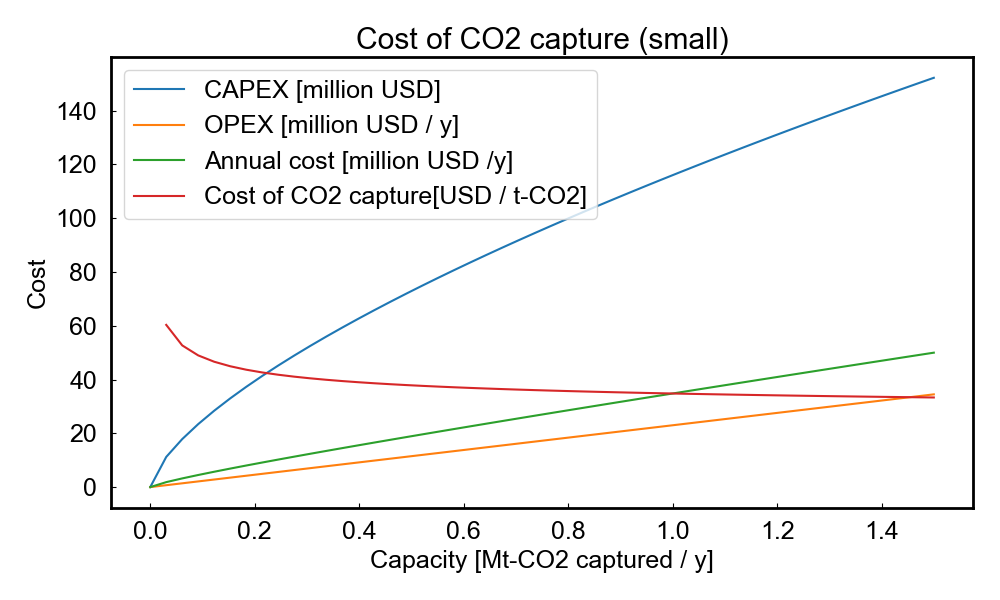
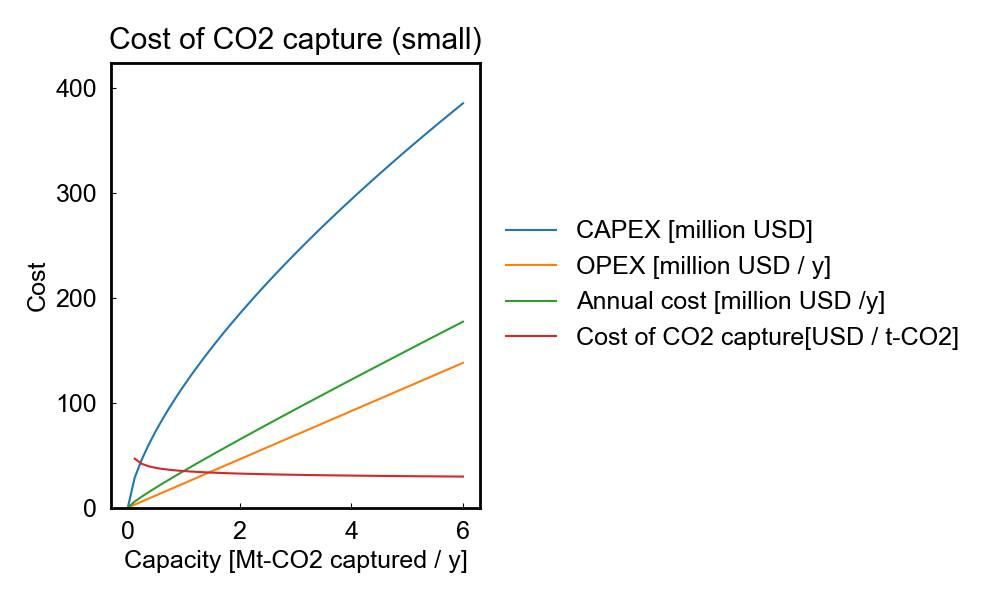
biomass gassification, CCS plot

diff --git a/myconfig/plotter.py b/myconfig/plotter.py
@@ -46,19 +46,19 @@ def make_ax(x_label, y_label, title):
     ax = plot_formatting(ax, x_label, y_label, title)
     return ax
 
-def save_figure(title, save_dir):
+def save_figure(title, save_dir, dpi=300):
     DATA_DIR = Path(__file__).resolve().parent.parent / "DATA"
     plot_dir = DATA_DIR / save_dir
     plot_dir.mkdir(exist_ok=True)
     save_path = plot_dir / f"{title}.png"
     plt.tight_layout()
-    plt.savefig(save_path)
+    plt.savefig(save_path, dpi=dpi)
 
 ###############
 ## Line plot ##
 ###############
 
-def plot_line(x, y_list, legend_label=[], x_label="x", y_label="y", title="title", save_dir="plots", y_max=None):
+def plot_line(x, y_list, legend_label=[], x_label="x", y_label="y", title="title", save_dir="plots", y_max=None, dpi=300):
     ax = make_ax(x_label, y_label, title)
     if not legend_label:
         legend_label = [str(i) for i in range(len(y_list))]
@@ -79,14 +79,14 @@ def plot_line(x, y_list, legend_label=[], x_label="x", y_label="y", title="title
         ax.set_ylim(0, max_y * 1.1)
 
     print(f"Plotted: {title}")
-    save_figure(title, save_dir)
+    save_figure(title, save_dir, dpi)
     plt.show()
 
 ###############
 ## Bar chart ##
 ###############
 
-def plot_bar(y_list, label_list=[], x_label="", y_label="y", title="title", save_dir="plots", y_max=None):
+def plot_bar(y_list, label_list=[], x_label="", y_label="y", title="title", save_dir="plots", y_max=None, dpi=300):
     ax = make_ax(x_label, y_label, title)
 
     x = ["Bar" + str(i+1) for i in range(len(y_list))]
@@ -101,10 +101,10 @@ def plot_bar(y_list, label_list=[], x_label="", y_label="y", title="title", save
         ax.set_ylim(0, max_y * 1.1)
 
     print(f"Plotted: {title}")
-    save_figure(title, save_dir)
+    save_figure(title, save_dir, dpi)
     plt.show()
 
-def plot_stack_bar(y_list, x_list=[], layer_label_list=[], x_label="", y_label="y", title="title", save_dir="plots", y_max=None):
+def plot_stack_bar(y_list, x_list=[], layer_label_list=[], x_label="", y_label="y", title="title", save_dir="plots", y_max=None, dpi=300):
     ax = make_ax(x_label, y_label, title)
 
     # x_listが提供されていない場合はデフォルト値を使用
@@ -139,14 +139,14 @@ def plot_stack_bar(y_list, x_list=[], layer_label_list=[], x_label="", y_label="
     
     ax.legend(bbox_to_anchor=(1.01, 0.5), loc="center left", frameon=False)
     print(f"Plotted: {title}")
-    save_figure(title, save_dir)
+    save_figure(title, save_dir, dpi)
     plt.show()
 
 ##################
 ## Scatter plot ##
 ##################
 
-def plot_scatter(x, y, x_label="x", y_label="y", title="title", save_dir="plots", y_max=None):
+def plot_scatter(x, y, x_label="x", y_label="y", title="title", save_dir="plots", y_max=None, dpi=300):
     ax = make_ax(x_label, y_label, title)
 
     x_list = x
@@ -161,14 +161,14 @@ def plot_scatter(x, y, x_label="x", y_label="y", title="title", save_dir="plots"
         ax.set_ylim(0, max_y * 1.1)
 
     print(f"Plotted: {title}")
-    save_figure(title, save_dir)
+    save_figure(title, save_dir, dpi)
     plt.show()
 
 ######################
 ## Combination plot ##
 ######################
 
-def plot_line_and_scatter(x_list, y_list, x_scat, y_scat, legend_label=[],  x_label="x", y_label="y", title="title", save_dir="plots", y_max=None):
+def plot_line_and_scatter(x_list, y_list, x_scat, y_scat, legend_label=[],  x_label="x", y_label="y", title="title", save_dir="plots", y_max=None, dpi=300):
     ax = make_ax(x_label, y_label, title)
     if not legend_label:
         legend_label = [str(i) for i in range(len(y_list))]
@@ -192,7 +192,7 @@ def plot_line_and_scatter(x_list, y_list, x_scat, y_scat, legend_label=[],  x_la
         ax.set_ylim(0, max_y * 1.1)
 
     print(f"Plotted: {title}")
-    save_figure(title, save_dir)
+    save_figure(title, save_dir, dpi)
     plt.show()
 
 if __name__ == "__main__":

diff --git a/main.py b/main.py
@@ -139,4 +139,26 @@ def ccs_total_comparison():
             title = f"CCS Cost of {cr} Mtpa with {l} km pipeline (without storage)"
             plot_stack_bar(y_list=y_list, x_list=x_list, layer_label_list=layer_label_list, y_label=y_label, title=title)
 
-ccs_total_comparison()
+def ccs_total_check():
+    cr = np.linspace(0, 6.0, 50) # [Mt-CO2 captured / y]
+    capex = co2_capture_capex(cr)
+    opex_list = co2_capture_opex(cr)
+    opex = [(opex_list[0][i] + opex_list[1][i] + opex_list[2][i] + opex_list[3][i]) for i in range(len(opex_list[0]))]
+    annual_cost = co2_capture_cost(cr)
+    cocc = ccs_cost_check(cr)
+    y_list = [capex, opex, annual_cost,cocc]
+    label_list = ["CAPEX [million USD]", "OPEX [million USD / y]", "Annual cost [million USD /y]", "Cost of CO2 capture and transport\n[USD / t-CO2]"]
+    # y_list = [annual_cost,cocc]
+    # label_list = ["Annual cost [million USD /y]", "Cost of CO2 capture and transport\n[USD / t-CO2]"]
+ 
+    title = "Cost of CO2 capture and transport"
+    x_label = "Capacity [Mt-CO2 captured / y]"
+    y_label = "Cost"
+    plot_line(cr, y_list, legend_label=label_list, x_label=x_label, y_label=y_label, title=title)
+
+def biomass_gasifier():
+    pr = np.linspace(1, 100, 50) # [kt-H2 / y]
+    capex = bio_hydrogen_capex(pr)
+    plot_line(pr, [capex], x_label="Hydrogen production rate [kt-H2 / yr]", y_label="CAPEX [millin USD]", title="Biomass gasification cost")
+
+biomass_gasifier()
